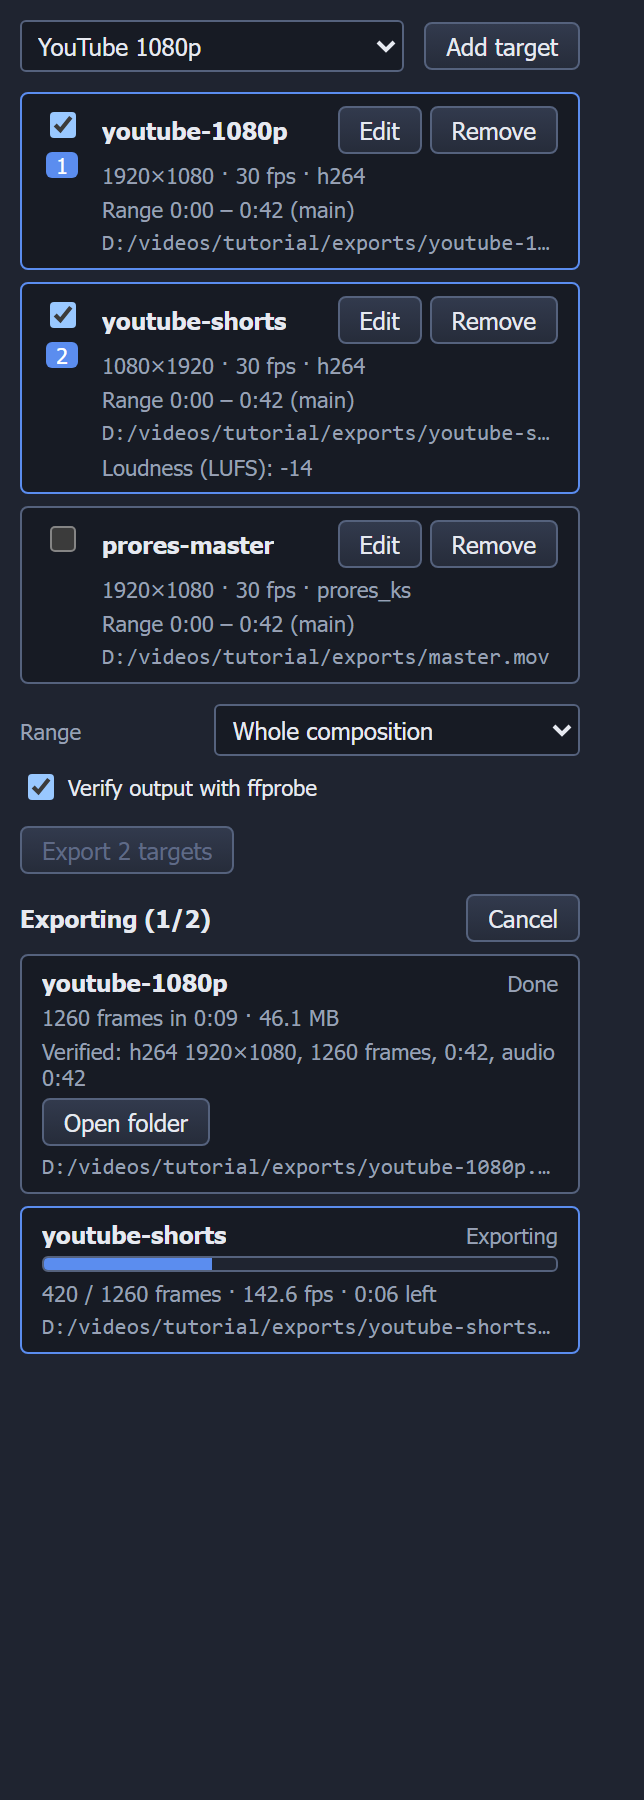
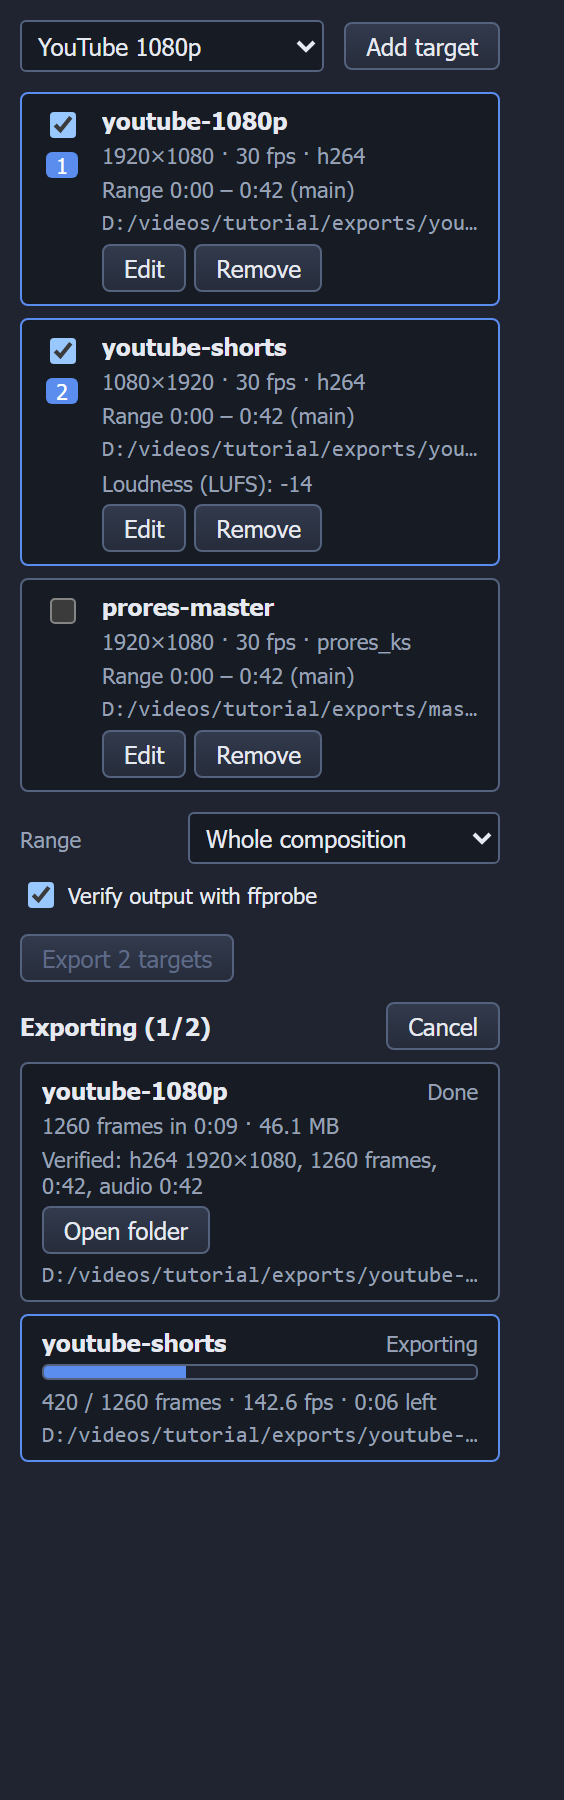
feat(movie-maker): Deliver のスクリーンショットと実アプリでの書き出しの確認
狭い左の列でも行がはみ出さない並びにする。実アプリに CDP でつなぎ、2 つのレンダーターゲットを積んで書き出す app-deliver.mjs を足す。

Claude-Session: https://claude.ai/code/session_019jHytrXqejdP9vSdGinNpm

Changed region(s): [[0.0301, 0.0, 0.9043, 0.8089]]

diff --git a/movie-maker/ui/panels/deliver/src/TargetRow.tsx b/movie-maker/ui/panels/deliver/src/TargetRow.tsx
@@ -30,17 +30,7 @@ export const TargetRow = ({ target, specs, overview, sequence, position, onToggl
       {position !== null && <span class="mm-deliver-order">{position}</span>}
     </label>
     <div class="mm-deliver-row-body">
-      <div class="mm-deliver-row-head">
-        <strong class="mm-deliver-name">{target.id}</strong>
-        <span class="mm-deliver-row-actions">
-          <button type="button" class="mm-deliver-button" onClick={onEdit}>
-            Edit
-          </button>
-          <button type="button" class="mm-deliver-button" onClick={onRemove}>
-            Remove
-          </button>
-        </span>
-      </div>
+      <strong class="mm-deliver-name">{target.id}</strong>
       <div class="mm-deliver-meta">
         {target.width}×{target.height} · {formatFps(target.fps)} · {target.codec}
       </div>
@@ -53,6 +43,14 @@ export const TargetRow = ({ target, specs, overview, sequence, position, onToggl
           {f.label}: {f.text}
         </div>
       ))}
+      <div class="mm-deliver-row-actions">
+        <button type="button" class="mm-deliver-button" onClick={onEdit}>
+          Edit
+        </button>
+        <button type="button" class="mm-deliver-button" onClick={onRemove}>
+          Remove
+        </button>
+      </div>
     </div>
   </li>
 );

diff --git a/movie-maker/ui/panels/deliver/src/deliver.css b/movie-maker/ui/panels/deliver/src/deliver.css
@@ -35,7 +35,7 @@
 }
 
 .mm-deliver-toolbar select {
-  flex: 1 1 auto;
+  flex: 1 1 0;
 }
 
 .mm-deliver-button {
@@ -45,6 +45,7 @@
   background: var(--mm-gradient-button);
   color: var(--mm-color-text);
   font: inherit;
+  white-space: nowrap;
   cursor: pointer;
 }
 
@@ -85,6 +86,7 @@
 .mm-deliver-targets,
 .mm-deliver-items {
   display: grid;
+  grid-template-columns: minmax(0, 1fr);
   gap: var(--mm-space-sm);
   margin: 0;
   padding: 0;
@@ -130,6 +132,7 @@
 
 .mm-deliver-row-body {
   display: grid;
+  grid-template-columns: minmax(0, 1fr);
   flex: 1 1 auto;
   gap: var(--mm-space-xs);
   min-width: 0;
@@ -168,6 +171,7 @@
 
 .mm-deliver-form {
   display: grid;
+  grid-template-columns: minmax(0, 1fr);
   flex: 1 1 auto;
   gap: var(--mm-space-sm);
 }
@@ -211,6 +215,7 @@
 
 .mm-deliver-options {
   display: grid;
+  grid-template-columns: minmax(0, 1fr);
   gap: var(--mm-space-sm);
 }
 
@@ -223,11 +228,13 @@
 
 .mm-deliver-queue {
   display: grid;
+  grid-template-columns: minmax(0, 1fr);
   gap: var(--mm-space-sm);
 }
 
 .mm-deliver-item {
   display: grid;
+  grid-template-columns: minmax(0, 1fr);
   gap: var(--mm-space-xs);
 }
 

diff --git a/movie-maker/ui/panels/deliver/demo/main.tsx b/movie-maker/ui/panels/deliver/demo/main.tsx
@@ -82,7 +82,7 @@ if (root) {
   root.style.boxSizing = "border-box";
   root.style.flexDirection = "column";
   root.style.padding = "10px";
-  root.style.width = "300px";
+  root.style.width = "260px";
   root.style.height = "100vh";
   render(<DeliverPanel api={api} />, root);
 }
